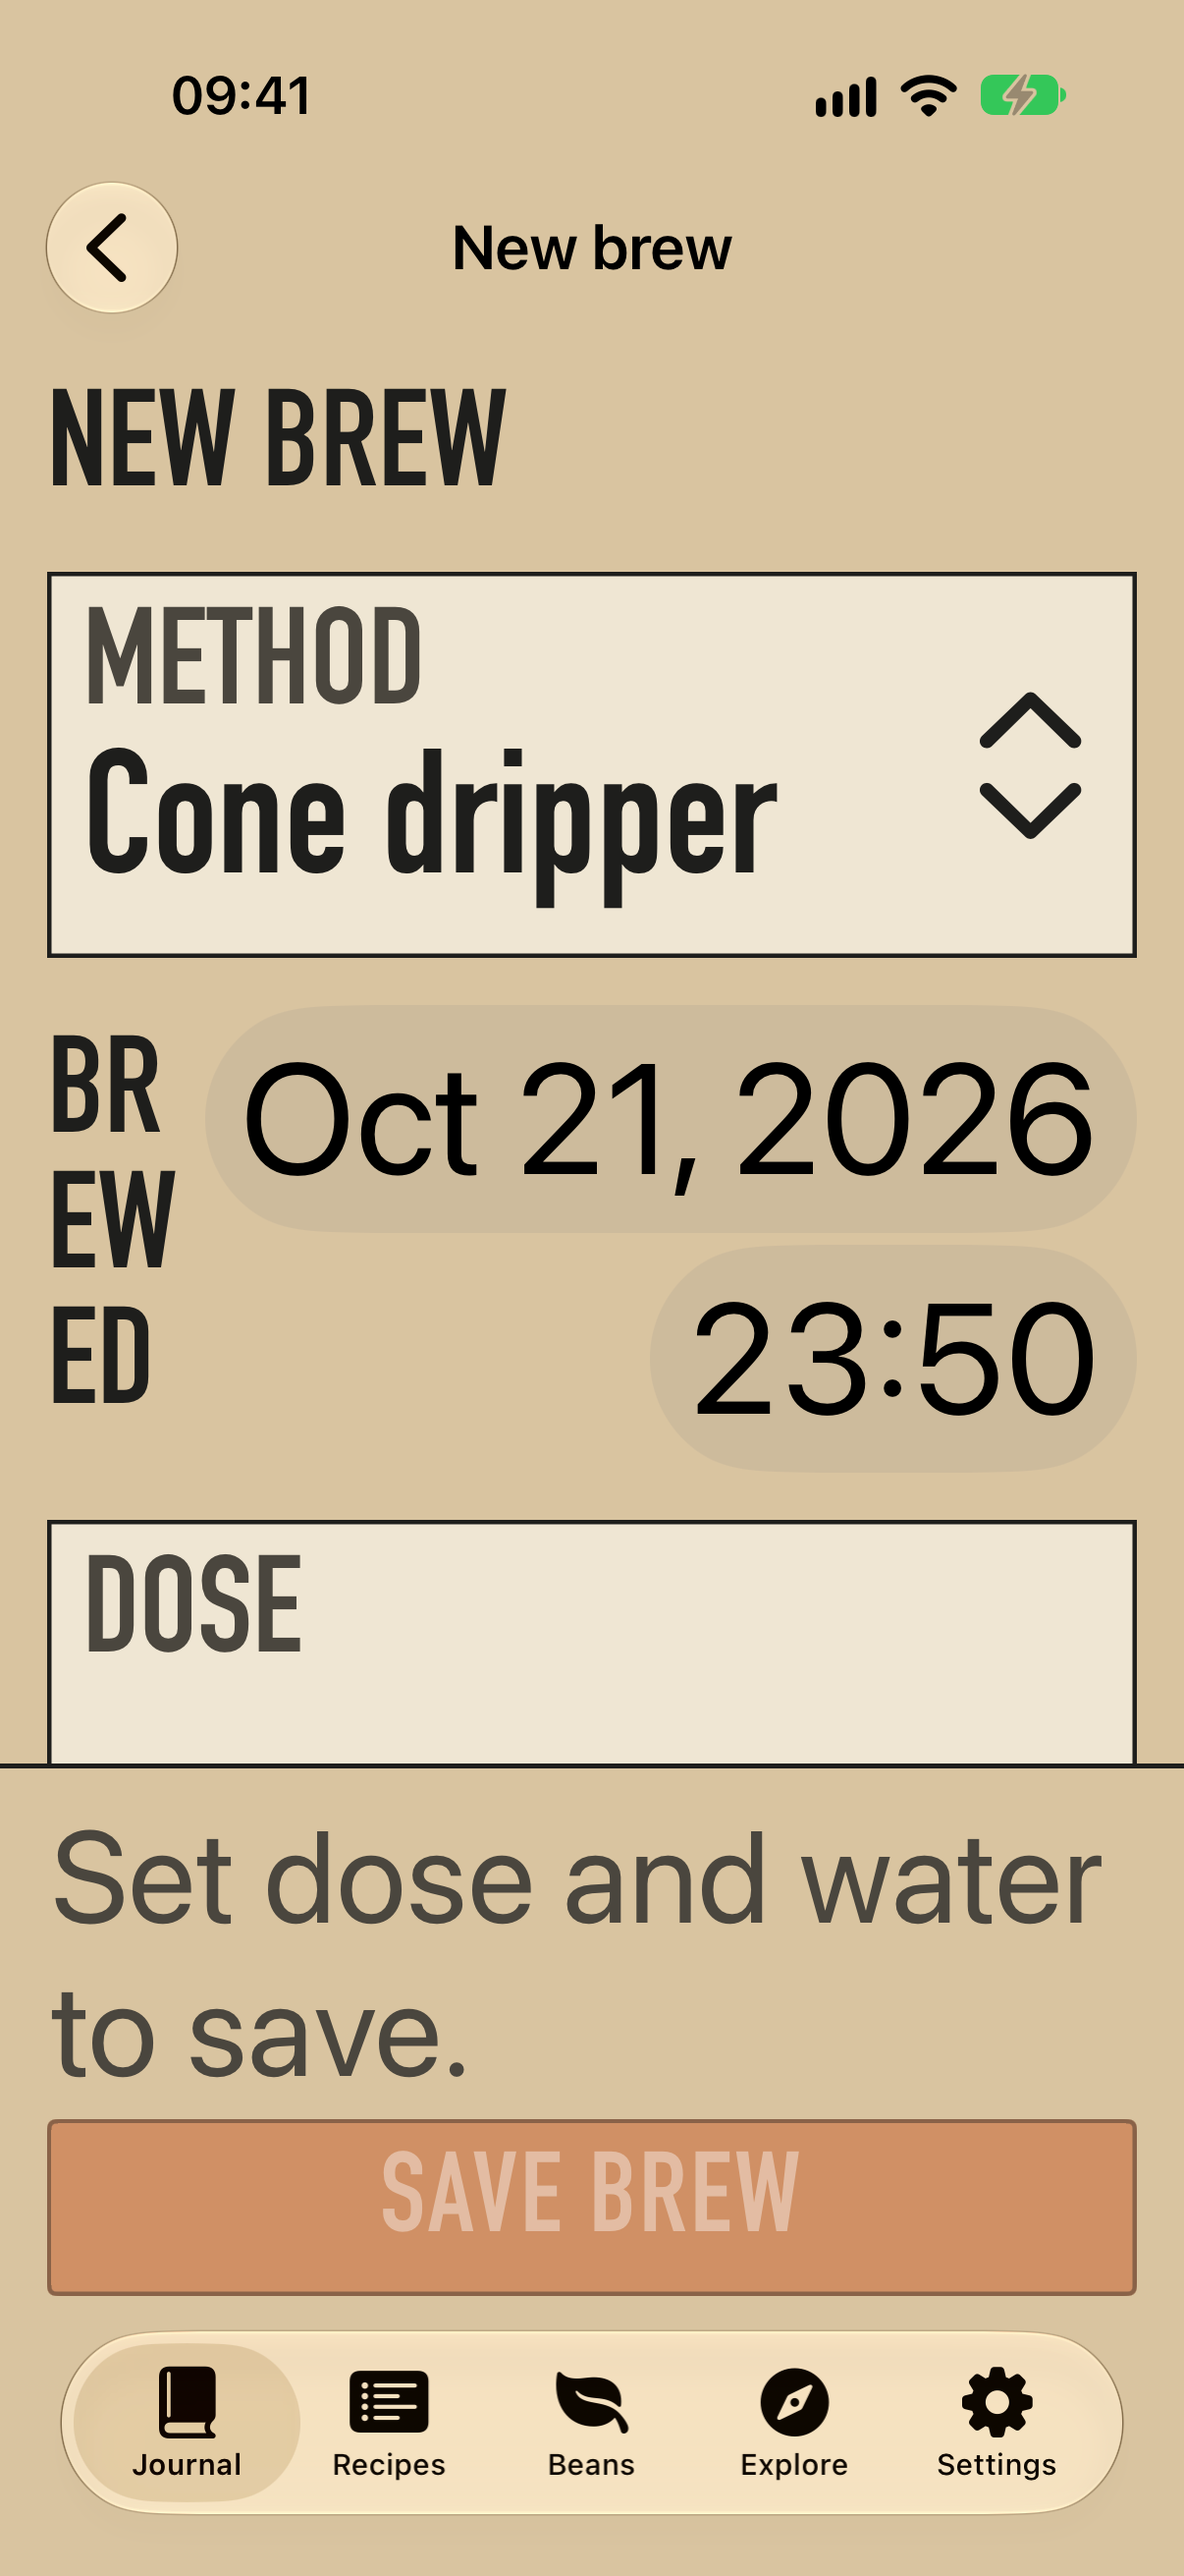
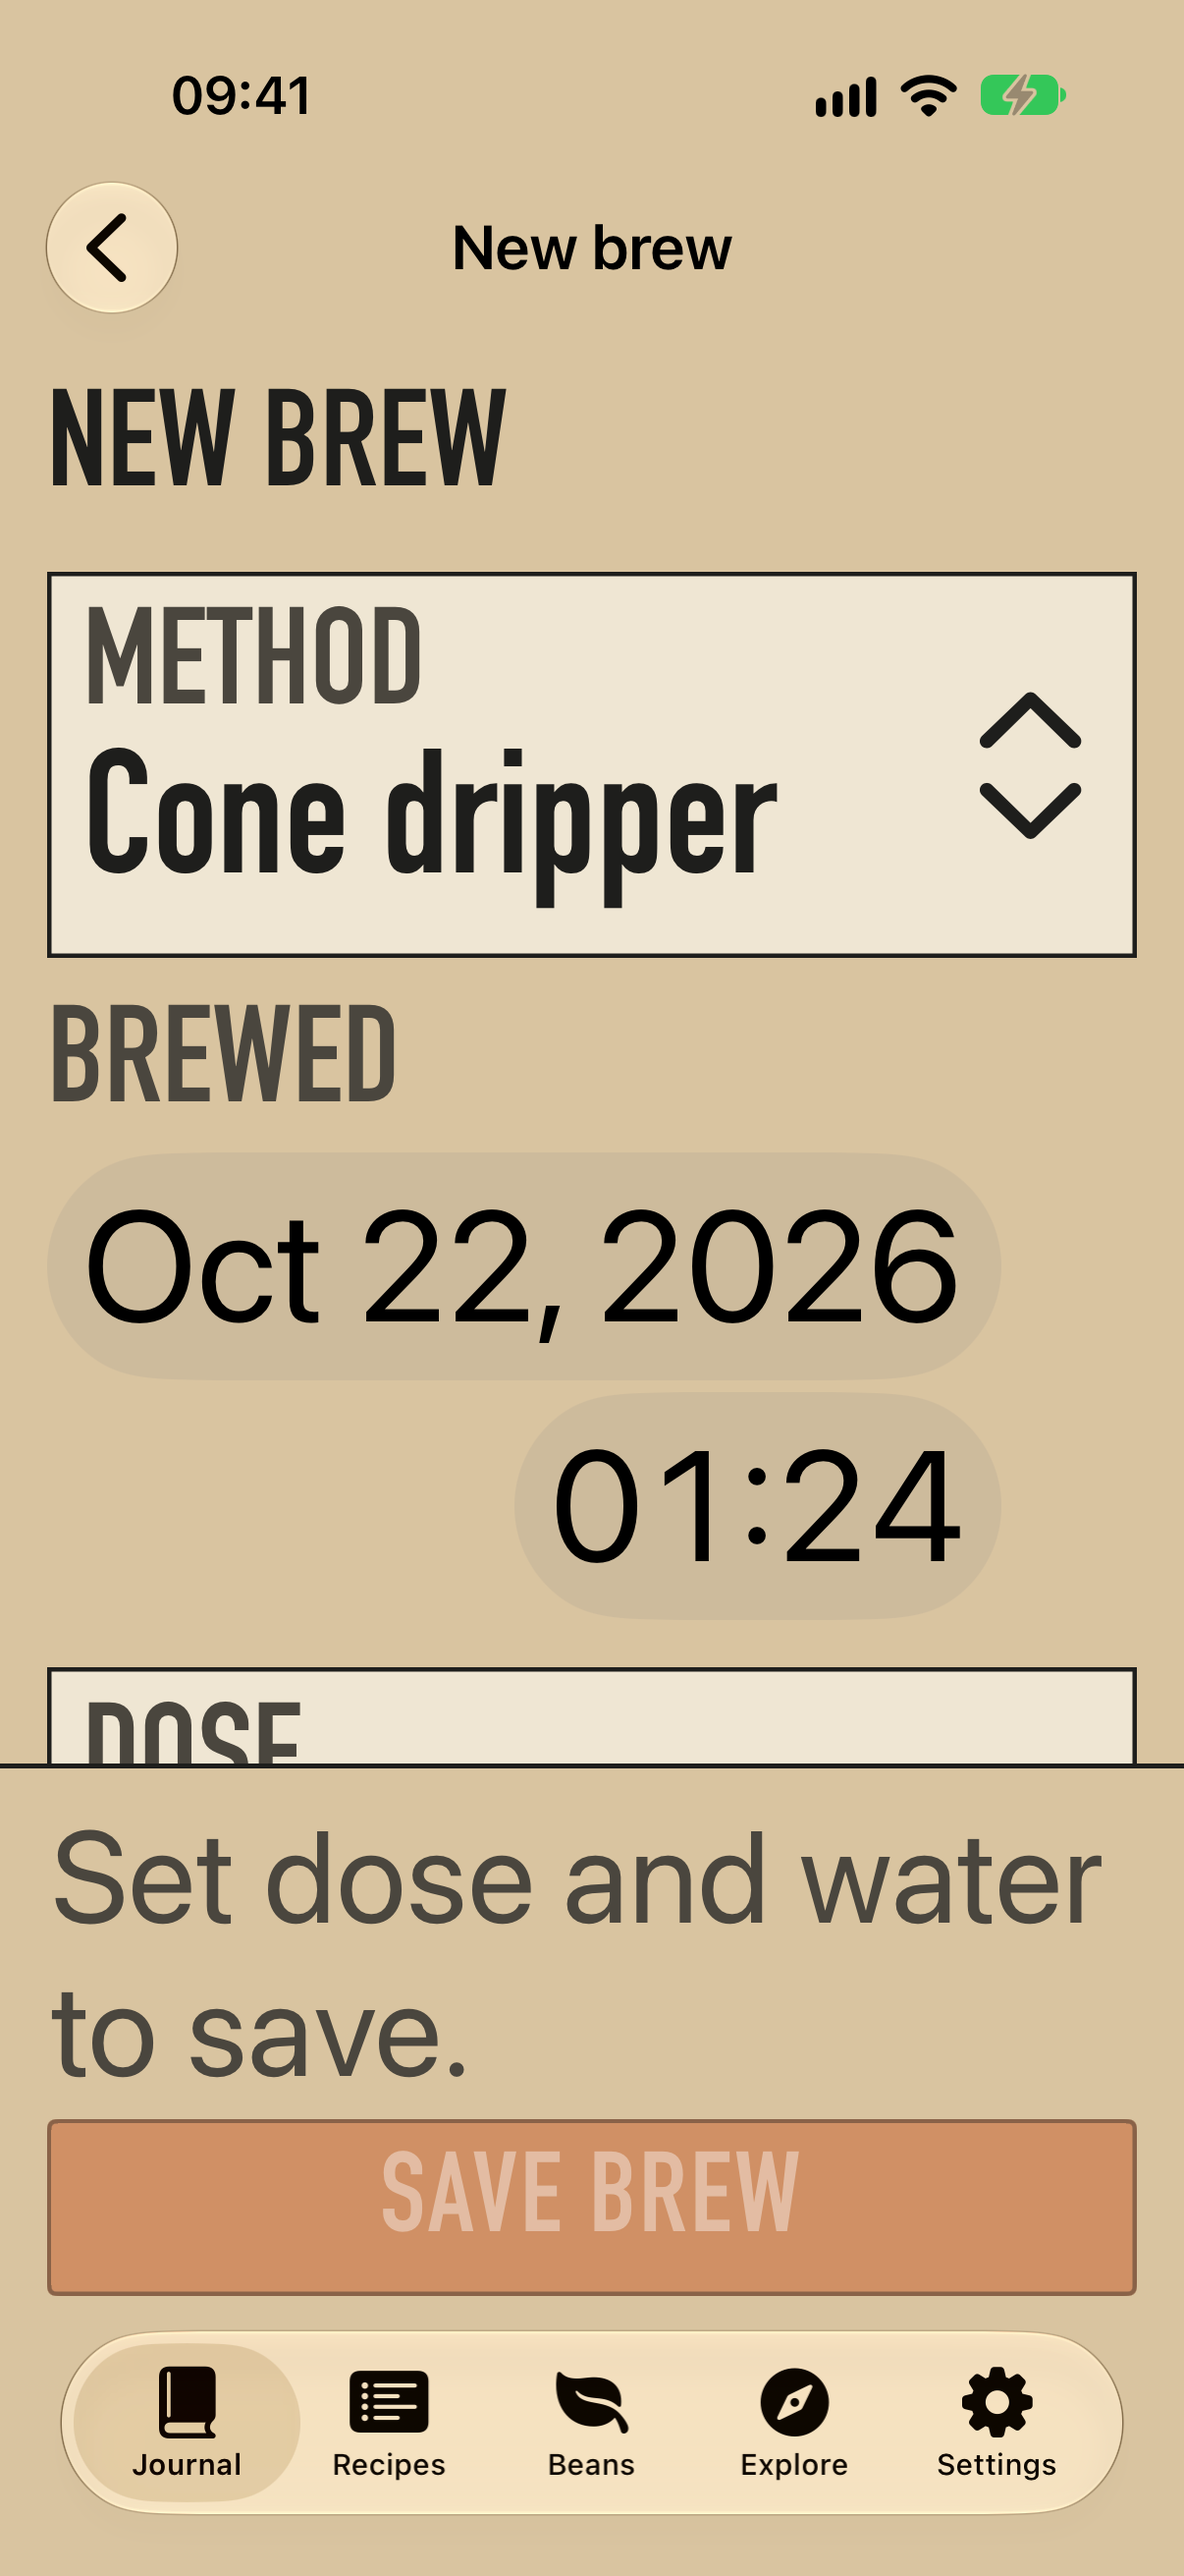
feat(T009): brew form with autosaved drafts, honest saves, sanitized photos

Changed region(s): [[0.0307, 0.3707, 0.9818, 0.7105]]

diff --git a/NextCup/Features/Journal/BrewFormView.swift b/NextCup/Features/Journal/BrewFormView.swift
@@ -114,9 +114,7 @@ struct BrewFormView: View {
             kind: .info, message: "You ended this brew early. The time is what it reached.")
         }
         methodPicker(binding.draft, model)
-        DatePicker("Brewed", selection: binding.draft.date, in: ...Date())
-          .font(DS.Font.label).textCase(.uppercase).foregroundStyle(DS.ink)
-          .frame(minHeight: DS.Size.control)
+        brewedRow(binding.draft.date)
         tiles(model)
         grindField(binding.draft.grindSetting)
         verdictRow(binding.draft.verdict)
@@ -198,6 +196,24 @@ struct BrewFormView: View {
     .accessibilityLabel("Method")
     .accessibilityValue(current?.name ?? "None chosen")
     .accessibilityIdentifier("brewform.method")
+  }
+
+  /// The label stacks above the picker at accessibility sizes, so it never wraps
+  /// letter by letter beside the date.
+  private func brewedRow(_ date: Binding<Date>) -> some View {
+    let layout =
+      dts.isAccessibilitySize
+      ? AnyLayout(VStackLayout(alignment: .leading, spacing: DS.Space.xs))
+      : AnyLayout(HStackLayout(spacing: DS.Space.sm))
+    return layout {
+      Text("BREWED").font(DS.Font.label).foregroundStyle(DS.ink2)
+        .accessibilityHidden(true)
+      if !dts.isAccessibilitySize { Spacer(minLength: 0) }
+      DatePicker("Brewed", selection: date, in: ...Date())
+        .labelsHidden().foregroundStyle(DS.ink)
+    }
+    .frame(maxWidth: .infinity, minHeight: DS.Size.control, alignment: .leading)
+    .accessibilityElement(children: .contain)
   }
 
   private func tiles(_ model: BrewFormModel) -> some View {

diff --git a/NextCupUITests/NextCupUITests.swift b/NextCupUITests/NextCupUITests.swift
@@ -222,7 +222,8 @@ final class NextCupUITests: XCTestCase {
     scrollUntilHittable(grind, in: app)
     // Lift the field clear of the Save bar with a short drag.
     let mid = app.coordinate(withNormalizedOffset: CGVector(dx: 0.5, dy: 0.6))
-    mid.press(forDuration: 0.05, thenDragTo: app.coordinate(withNormalizedOffset: CGVector(dx: 0.5, dy: 0.4)))
+    let higher = app.coordinate(withNormalizedOffset: CGVector(dx: 0.5, dy: 0.4))
+    mid.press(forDuration: 0.05, thenDragTo: higher)
     grind.tap()
     grind.typeText("21 clicks")
     app.keyboards.buttons["Done"].tap()  // dismisses the keyboard and the draft stays

diff --git a/activity.md b/activity.md
@@ -228,3 +228,25 @@ Untested / honest gaps:
 - Relaunch mid-brew: the engine restores (T005 tests) and a same-plan session adopts it, but nothing reopens the timer screen on its own after a relaunch; the user must reopen the recipe and tap Start brew.
 - Pause/resume haptics and the Live Activity (T026) are not exercised in UI tests. `/impeccable polish` and `audit` not run. `/goal` not invoked as a tool; bound self-enforced.
 - The first full test run hit a 600 s simulator-diagnostics timeout; later runs were scoped to the app test targets.
+
+## T009 — Brew form S02, DraftStore, honest saves, photo sanitizing (Sonnet)
+
+Changed:
+- `NextCupKit`: `DraftStore` (file-backed autosave, failed write reported and previous draft kept, corrupt file discarded), `BrewDraft` (`canSave` needs positive dose and water), `PhotoSanitizer` (re-encodes without GPS/EXIF/TIFF metadata, scales down).
+- `NextCup/Features/Journal/`: `BrewFormModel` (restore, debounced autosave, flush on background/disappear, save clears the draft only after the store confirms; failure rolls back, shows the error, keeps the draft), `BrewFormView` (method picker, date, dose/water/temperature/time steppers with recipe targets beside them, ratio, grind, verdict, grade, photo, notes; Save in the bottom inset; tap-away and Done dismiss the keyboard), `BrewFormSeed` hand-over from the timer. DEBUG `-failBrewSave` simulates a write failure.
+- This session: fixed the "BREWED" label wrapping letter by letter at the largest text size (label now stacks above the date picker); fixed one over-long line in `NextCupUITests.swift`.
+
+Commands and results:
+- `swift test --package-path Packages/NextCupKit`: 52 tests passed (incl. DraftStore, PhotoSanitizer GPS/EXIF absence).
+- `swift format lint --recursive --strict ...`: clean.
+- `xcodebuild ... build`: BUILD SUCCEEDED.
+- `xcodebuild ... test` (app + UI, before the label fix): TEST SUCCEEDED, 16 UI tests. After the fix a scoped re-run of the app unit tests plus the three form UI tests was started; see the result line below.
+
+Screenshots (`ralph/screenshots/`): `brewform-prefilled-{light,dark,largest-text}.png`, `brewform-blank-{light,dark,largest-text}.png`, `brewform-lower-light.png` (viewed: prefilled largest text before and after the fix).
+
+Untested / honest gaps:
+- VoiceOver not run by hand; labels and identifiers are set, not heard. Real haptics not felt.
+- Photo picker was not driven in a UI test (system picker); sanitizing is covered by package tests with a GPS-carrying fixture.
+- Journal list that shows the saved brew is T010; the form currently ends on a "Brew saved" state.
+- `/impeccable polish` and `audit` not run. `/goal` not invoked as a tool; bound self-enforced.
+- Result of the post-fix scoped re-run (app unit tests + 3 form UI tests, `-quiet`): no failures or errors printed; the run went quiet at the end of the test phase without a summary line, so I did not see an explicit TEST SUCCEEDED for it. The full run before the label fix did print TEST SUCCEEDED. Lint re-run clean.

diff --git a/prd.md b/prd.md
@@ -93,7 +93,7 @@ Type checks, per the platform profile.
 | T006 | App shell: tab bar (Journal, Recipes, Beans, Explore, Settings), deep links, scene restoration, design-system token stubs from Phase 3C | T002, Phase 3C | Each `nextcup://` link opens the right screen (UI test); tab restores after relaunch | app tests | done |
 | T007 | Recipe library S06, detail S07 with step timeline, scale-to-dose | T003, T004, T006 | Grouped by style, searchable; scaling updates every target; VoiceOver reads each step as "kind, time, target" | app + UI tests | done |
 | T008 | Guided timer S05 (haptics, one-handed bottom controls, Reduce Motion) | T005, T007 | Runs a recipe end to end; background/foreground UI test passes; opens S02 prefilled at the end | app + UI tests | done |
-| T009 | Brew form S02 with `DraftStore`, honest saves, actual values, photo with metadata stripped | T004, T006 | Autosave restores after relaunch; simulated write failure shows error and keeps draft; keyboard never covers Save at largest text size; EXIF/GPS absent in stored photo | app + UI tests | pending |
+| T009 | Brew form S02 with `DraftStore`, honest saves, actual values, photo with metadata stripped | T004, T006 | Autosave restores after relaunch; simulated write failure shows error and keeps draft; keyboard never covers Save at largest text size; EXIF/GPS absent in stored photo | app + UI tests | done |
 | T010 | Journal list S01: search, filter by method and bean, empty / no-results states, swipe delete with Undo | T009 | **Vertical slice complete:** UI test logs, edits, and finds a brew via F01 | UI tests | pending |
 | T011 | Brew again (X2) and edit any saved brew | T010 | Prefill tests (same bean + method, timing reset); UI test repeats a brew | package + UI tests | pending |
 | T012 | Methods S09: add, rename, reorder (drag + non-gesture alternative), hide, tracked parameters | T009 | Brew form shows exactly enabled parameters; hidden method keeps history | app + UI tests | pending |
